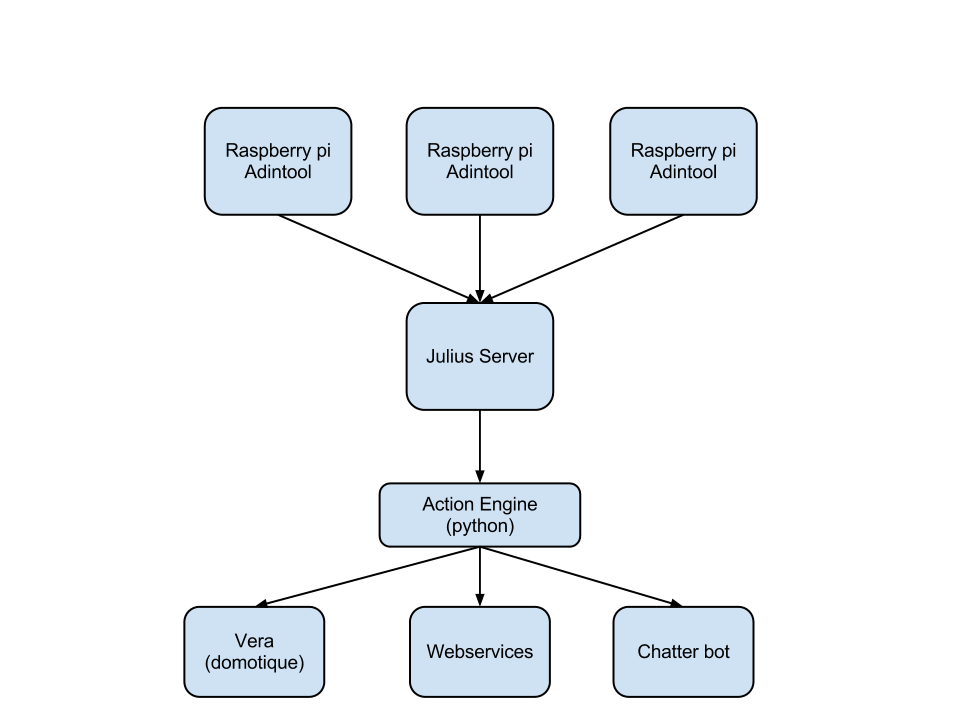
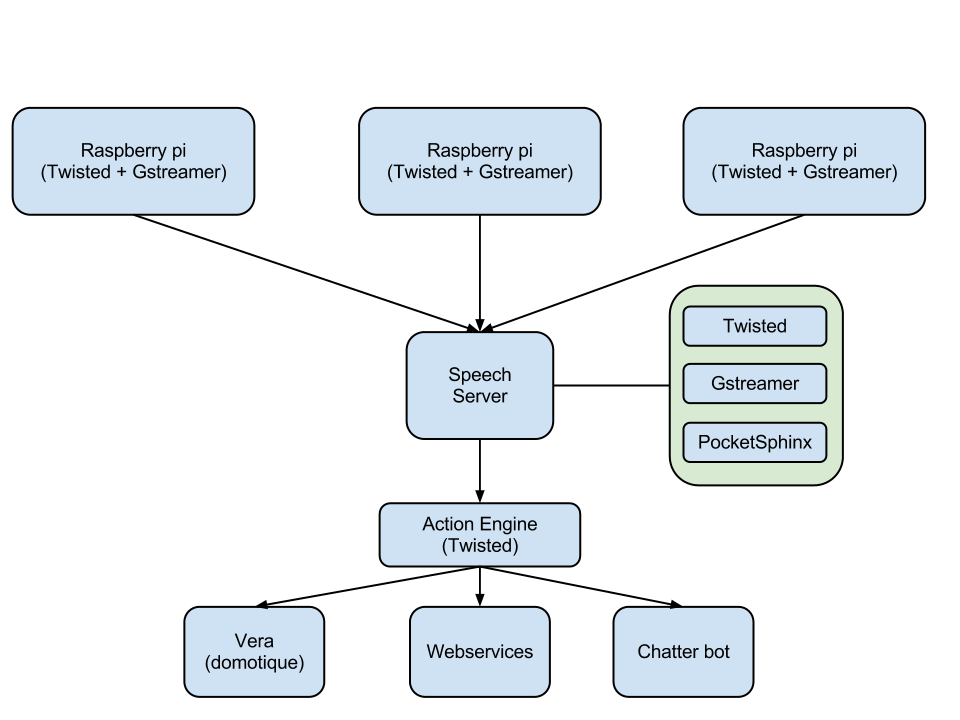
Modifying the documentation and the design

diff --git a/README.md b/README.md
@@ -4,14 +4,11 @@ JARVIS
 Repository of a JARVIS system to control my house
 ![Image](docs/images/jarvis-architecture.png?raw=true)
 
-Installation :
-apt-get install julius julius-voxforge
+Complete redesign of the application using cmusphinx:  
+The goal is to have the possibility to separate each element and let them communicate by network.
+With this system you will be able to have one IA, multiple speech engine, and multiple clients.
 
-You will need these python libraries :
-easy_install pyjulius
-easy_install python-rivescript
-
-Launch with:
-julius -module -input adinnet -48 -realtime -v voxforge/sample.dict  -dfa voxforge/sample.dfa -h /usr/share/julius-voxforge/acoustic/hmmdefs -hlist /usr/share/julius-voxforge/acoustic/tiedlist
+Using twisted, the client should be able to transmit the data of the microphone but also the zone where the sound come from.
+So the program will be able to answer in the zone where the sound was recorded.
 
 USEFULL RESSOURCE TO CHECK FOR FRENCH LANGUAGE : http://www-lium.univ-lemans.fr/fr/content/ressources
